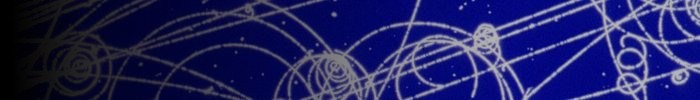
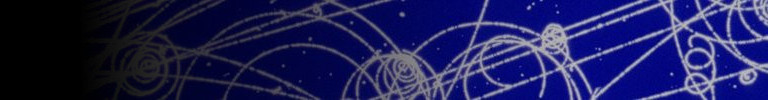
background header image left-anchored on mobile devices, right-anchored on larger screens

diff --git a/css/layout.css b/css/layout.css
@@ -14,7 +14,6 @@
   height: 60px;
   background-image: url("../imgs/header.jpg");
   background-repeat: no-repeat;
-  background-position: right;
   color: #fff;
   padding: 20px;
 }
@@ -68,18 +67,25 @@
   overflow: auto;
 }
 
-@media screen and (min-width: 600px) {
+@media screen and (min-width: 768px) {
   #pic {
     width: 30%;
     max-width: 300px;
     float: left;
     padding: 1em;
   }
+
+  #header {
+    background-position: right;
+  }
 }
 
-@media screen and (max-width: 600px) {
+@media screen and (max-width: 768px) {
   #pic {
     display: none !important;
+  }
+  #header {
+    background-position: left;
   }
 }
 
